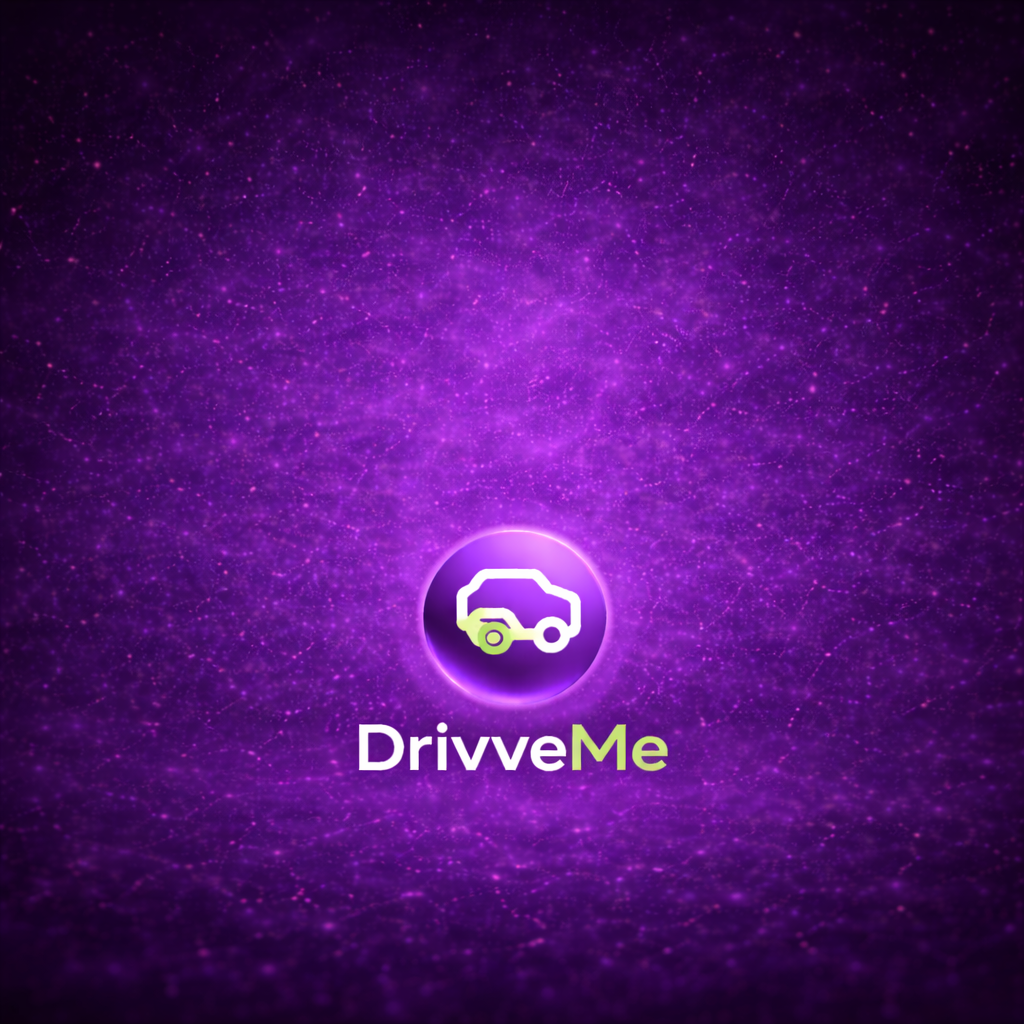
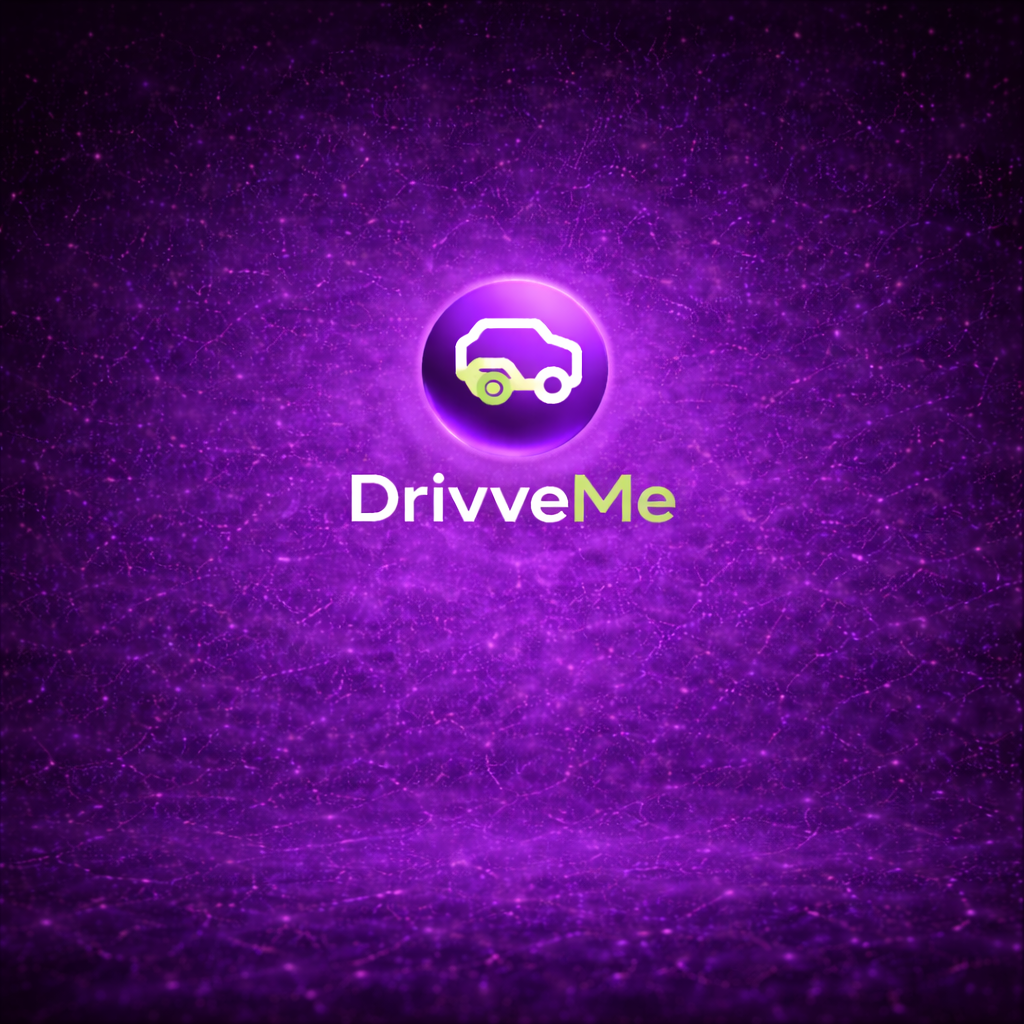
Changes

diff --git a/src/pages/RideBooking.tsx b/src/pages/RideBooking.tsx
@@ -1580,18 +1580,21 @@ const RideBooking = () => {
               background: 'linear-gradient(135deg, rgba(60, 30, 100, 0.3) 0%, rgba(30, 15, 60, 0.4) 50%, rgba(60, 30, 100, 0.3) 100%)',
             }}
           />
-          {/* Glowing logo at top center */}
-          <div className="absolute top-0 left-1/2 -translate-x-1/2 -translate-y-1/2 z-20">
-            <div className="h-20 w-20 rounded-full flex items-center justify-center logo-icon-pulse overflow-visible" style={{
+          {/* Glowing logo + brand name at top center */}
+          <div className="absolute top-4 left-1/2 -translate-x-1/2 z-20 flex flex-col items-center">
+            <div className="h-24 w-24 rounded-full flex items-center justify-center logo-icon-pulse overflow-visible" style={{
               background: 'radial-gradient(circle, hsl(var(--primary)) 0%, hsl(270 60% 20%) 100%)',
               boxShadow: '0 0 40px hsl(var(--primary) / 0.5), 0 0 80px hsl(var(--primary) / 0.3)'
             }}>
-              <img src={drivvemeCarIcon} alt="Drivveme" className="h-48 w-48 object-contain" />
+              <img src={drivvemeCarIcon} alt="Drivveme" className="h-64 w-64 object-contain" />
             </div>
+            <span className="font-display text-2xl font-bold mt-1 logo-flash">
+              Drivve<span className="text-accent">Me</span>
+            </span>
           </div>
           {/* Content layer */}
           <div 
-            className="relative h-full p-5 pt-6 space-y-4 overflow-y-auto z-10"
+            className="relative h-full p-5 pt-36 space-y-4 overflow-y-auto z-10"
           >
             {/* Greeting */}
             <GreetingHeader />
